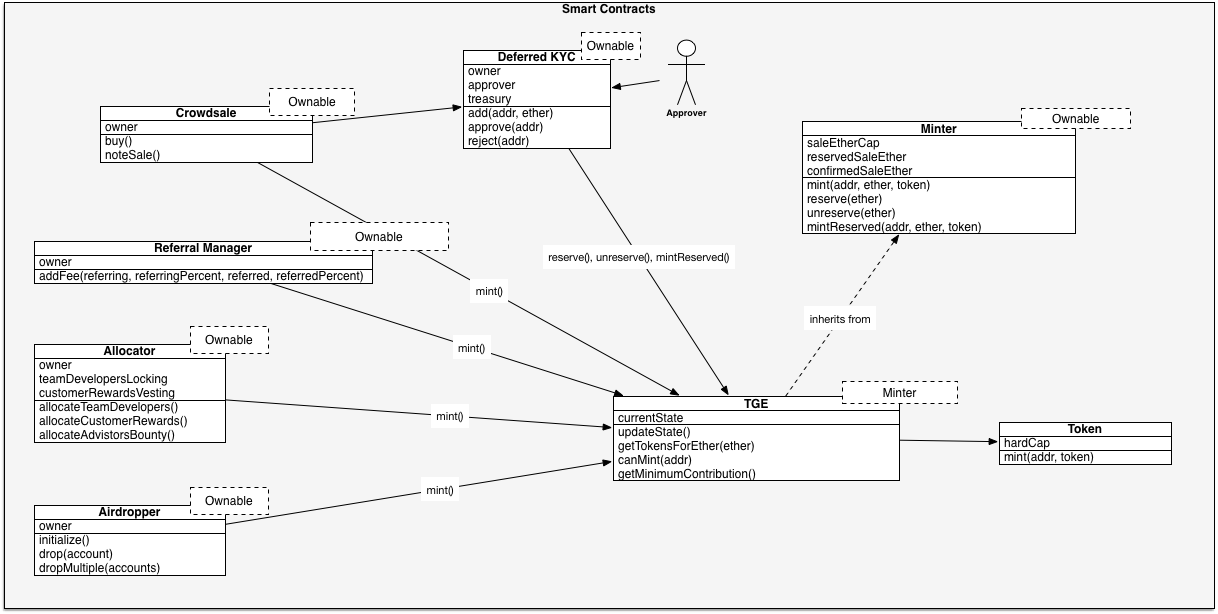
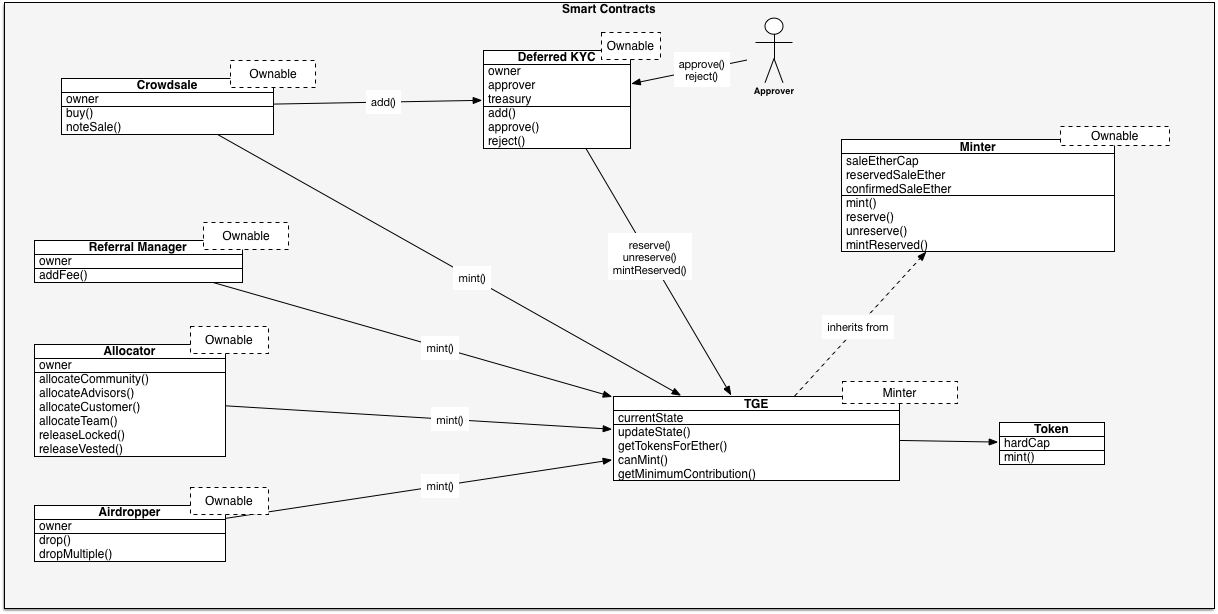
Updated diagram, tests, comments.

diff --git a/test/unitTests/tge.js b/test/unitTests/tge.js
@@ -31,6 +31,9 @@ describe('Tge', () => {
   const ICO5 = 8;
   const ICO6 = 9;
   const FINISHING_ICO = 10;
+  const ALLOCATING = 11;
+  const AIRDROPPING = 12;
+  const FINISHED = 13;
   const tokenCap = new BN(web3.utils.toWei('260000000'));
 
   before(async () => {
@@ -440,11 +443,56 @@ describe('Tge', () => {
       });
     });
 
-    describe('Finishing_ICO', async () => {
+    describe('FinishingIco', async () => {
       beforeEach(async() => {
         await advanceToSaleStartTime();
         await advanceDays(73);
         expect(await currentState()).to.eq.BN(FINISHING_ICO);
+      });
+
+      it('should not be a selling state', async() => {
+        expect(await isSellingState()).to.be.false;
+      });
+
+      it('should calculate proper quantity of tokens', async() => {
+        expect(await getCurrentTokensForEther(web3.utils.toWei('1'))).to.eq.BN(web3.utils.toWei('0'));
+      });
+    });
+
+    describe('Allocating', async () => {
+      beforeEach(async() => {
+        await moveState(PRESALE, ALLOCATING, tgeOwner);
+        expect(await currentState()).to.eq.BN(ALLOCATING);
+      });
+
+      it('should not be a selling state', async() => {
+        expect(await isSellingState()).to.be.false;
+      });
+
+      it('should calculate proper quantity of tokens', async() => {
+        expect(await getCurrentTokensForEther(web3.utils.toWei('1'))).to.eq.BN(web3.utils.toWei('0'));
+      });
+    });
+
+    describe('Airdropping', async () => {
+      beforeEach(async() => {
+        await moveState(PRESALE, AIRDROPPING, tgeOwner);
+        expect(await currentState()).to.eq.BN(AIRDROPPING);
+      });
+
+      it('should not be a selling state', async() => {
+        expect(await isSellingState()).to.be.false;
+      });
+
+      it('should calculate proper quantity of tokens', async() => {
+        expect(await getCurrentTokensForEther(web3.utils.toWei('1'))).to.eq.BN(web3.utils.toWei('0'));
+      });
+    });
+
+    describe('Finished', async () => {
+      beforeEach(async() => {
+        await moveState(PRESALE, FINISHED, tgeOwner);
+        expect(await currentState()).to.eq.BN(FINISHED);
       });
 
       it('should not be a selling state', async() => {
